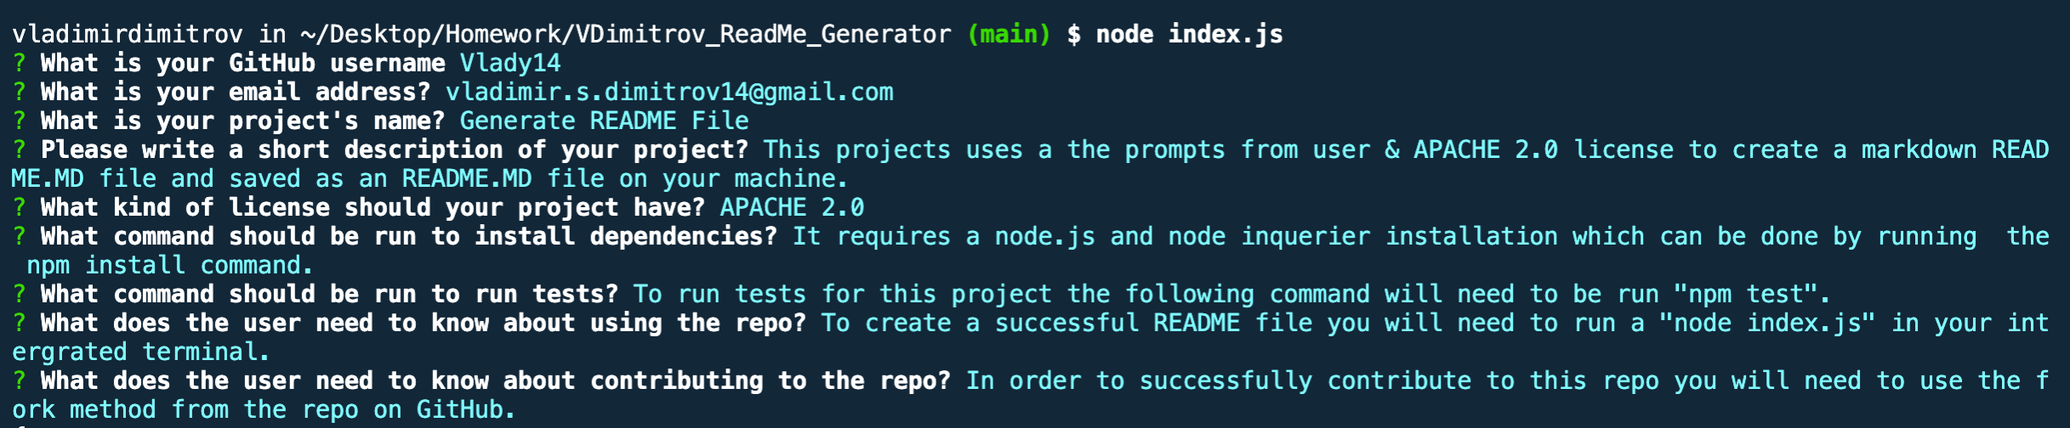
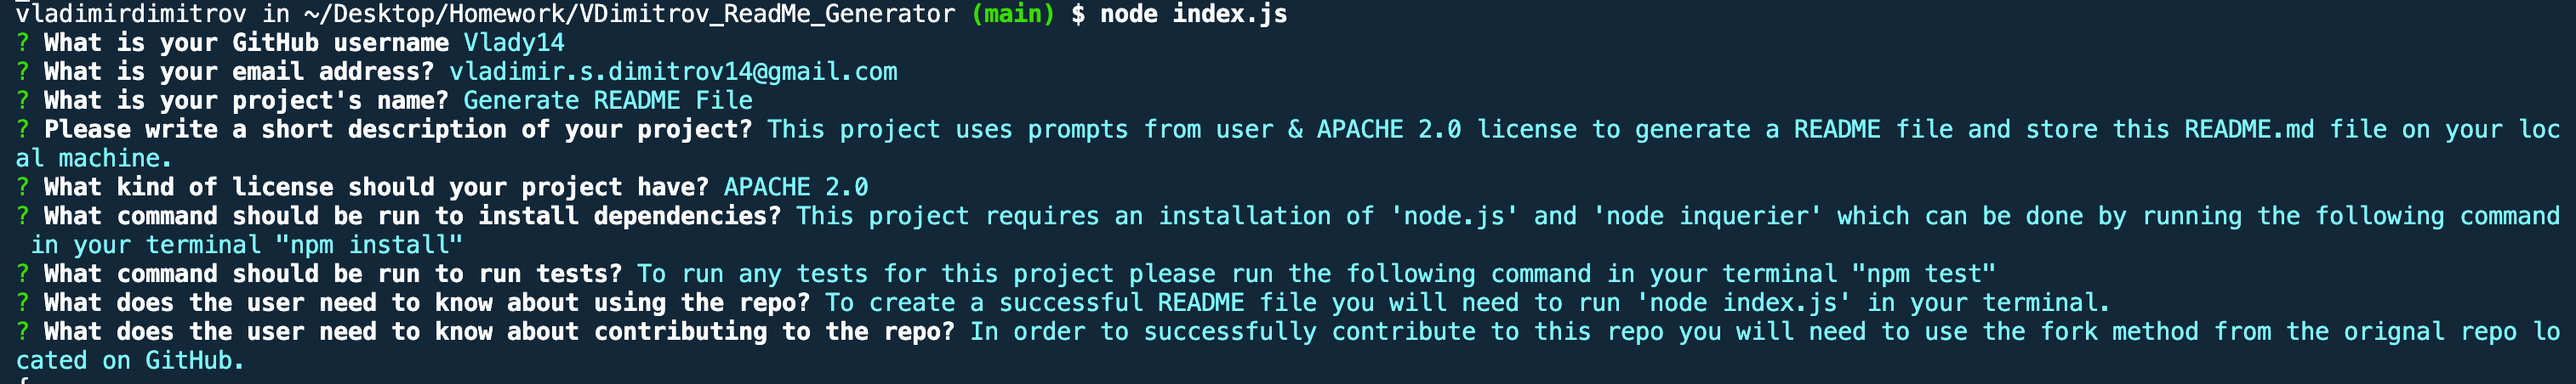
Added the final touches to the read me file.

Changed region(s): [[0.0, 0.0, 0.9992, 0.9912]]

diff --git a/index.js b/index.js
@@ -82,7 +82,7 @@ ${answer.projectDescription}
 
 ## Table of Contents
 
-* [Instalation](#installation)
+* [Installation](#installation)
 
 * [Usage](#usage)
 
@@ -102,13 +102,15 @@ ${answer.installDep}
 
 ## Usage
 
-![image](https://user-images.githubusercontent.com/71519918/99867989-1dc41800-2b84-11eb-921a-5be861e31990.png)
+![image](https://user-images.githubusercontent.com/71519918/99868688-494a0100-2b8a-11eb-9b47-3d3e9c3afb22.png)
 
 ${answer.usingRepo}
 
 ## License
 
 ${answer.license}
+
+![image](https://user-images.githubusercontent.com/71519918/99868729-a80f7a80-2b8a-11eb-9742-53c2264f0cf3.png)
 
 ## Contributing
 
@@ -118,9 +120,7 @@ ${answer.contributeRepo}
 
 To run tests, run the following command:
 
-'''
 ${answer.commandTest}
-'''
 
 ## Questions
 

diff --git a/README.md b/README.md
@@ -1,0 +1,48 @@
+# Generate README File
+
+## Description
+
+This project uses prompts from user & APACHE 2.0 license to generate a README file and store this README.md file on your local machine.
+
+## Table of Contents
+
+* [Installation](#installation)
+
+* [Usage](#usage)
+
+* [License](#license)
+
+* [Contributing](#contributing)
+
+* [Tests](#tests)
+
+* [Questions](#questions)
+
+## Installation
+
+This project requires an installation of 'node.js' and 'node inquerier' which can be done by running the following command in your terminal "npm install"
+
+## Usage
+
+![image](https://user-images.githubusercontent.com/71519918/99868688-494a0100-2b8a-11eb-9b47-3d3e9c3afb22.png)
+
+To create a successful README file you will need to run 'node index.js' in your terminal.
+
+## License
+
+APACHE 2.0
+
+![image](https://user-images.githubusercontent.com/71519918/99868729-a80f7a80-2b8a-11eb-9742-53c2264f0cf3.png)
+
+## Contributing
+
+In order to successfully contribute to this repo you will need to use the fork method from the orignal repo located on GitHub.
+
+## Tests
+
+To run any tests for this project please run the following command in your terminal "npm test"
+
+## Questions
+
+If you have any questions about the repo, please open an issue or contact me directly at <vladimir.s.dimitrov14@gmail.com>.
+You can find more of my work at Vlady14 (https://github.com/Vlady14).
